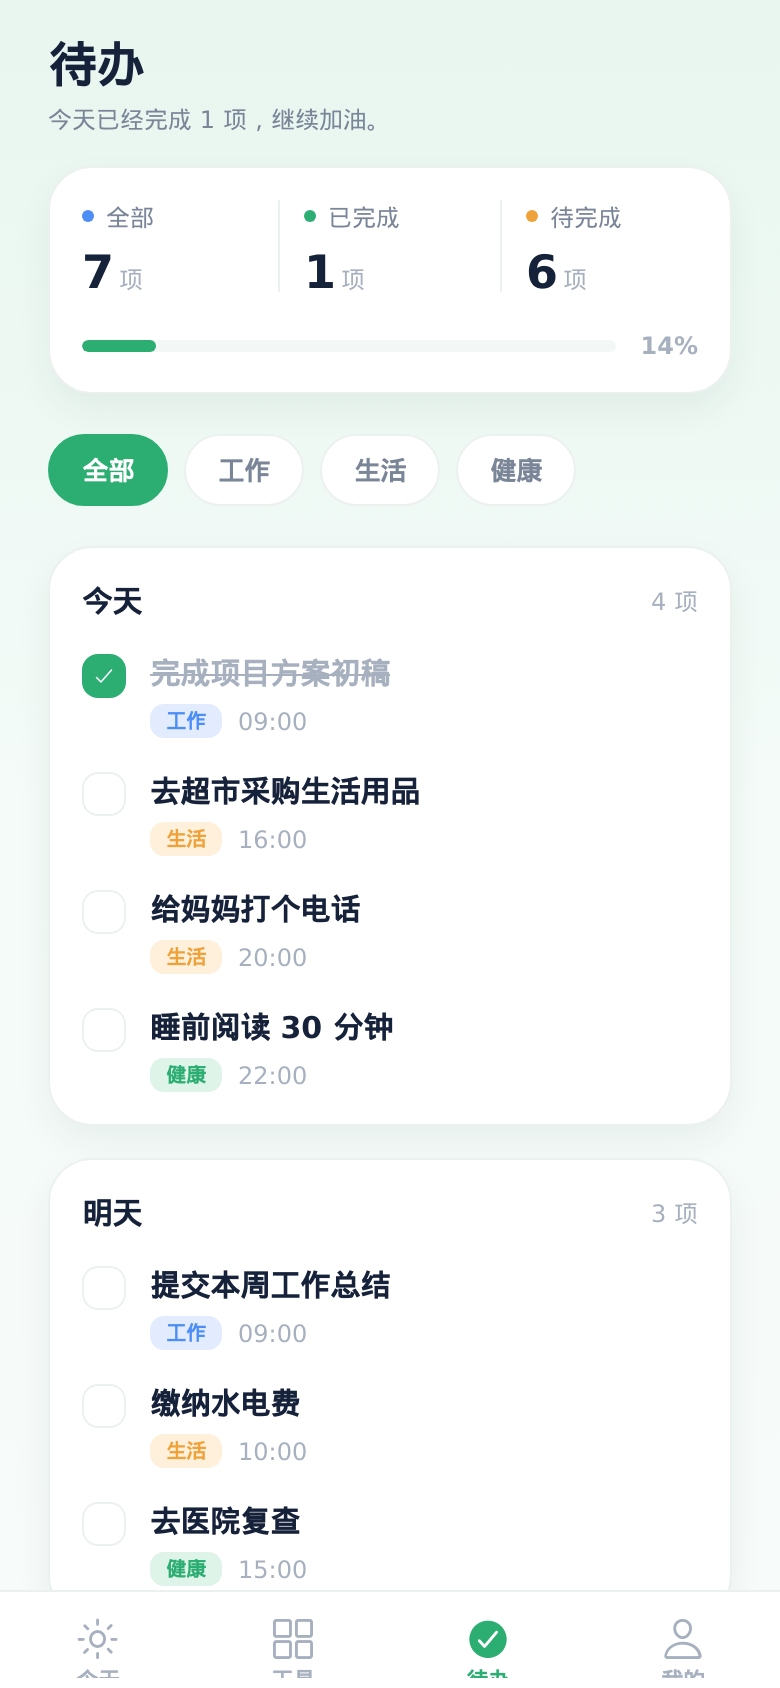
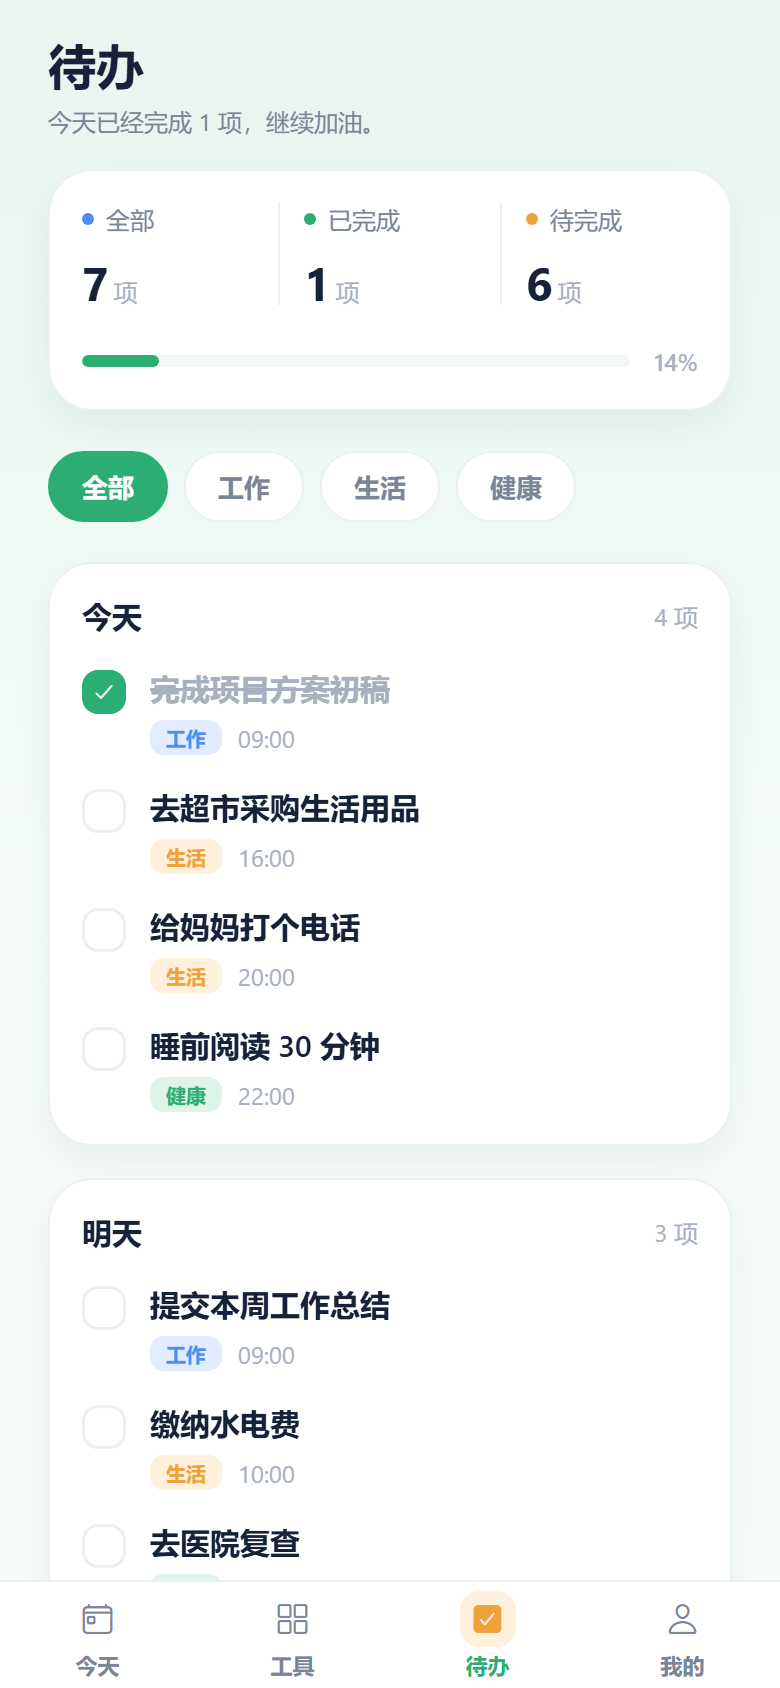
docs: 刷新页面大纲预览图并补充生成脚本

diff --git a/scripts/render-preview.js b/scripts/render-preview.js
@@ -1,0 +1,293 @@
+/**
+ * 用真实 React 组件（react-native-web SSR）重绘 docs/preview 下的页面大纲预览图。
+ *
+ * 依赖均来自现有 Expo / Jest 依赖链：@babel/register、react-native-web、react-dom。
+ * 运行：node scripts/render-preview.js
+ * 截图浏览器优先取环境变量 BROWSER_PATH，其次取系统 Edge。
+ */
+const fs = require('fs');
+const os = require('os');
+const path = require('path');
+const Module = require('module');
+const { execFileSync } = require('child_process');
+const React = require('react');
+const ReactDOMServer = require('react-dom/server');
+
+const root = path.join(__dirname, '..');
+const src = path.join(root, 'src');
+const outDir = path.join(root, 'docs', 'preview');
+const VIEW = { width: 390, height: 844, scale: 2 };
+const OVERVIEW = { width: 940, height: 450, scale: 2 };
+const UNITLESS = new Set([
+  'flex', 'flexGrow', 'flexShrink', 'opacity', 'zIndex', 'fontWeight',
+  'lineHeight', 'aspectRatio', 'elevation', 'shadowOpacity', 'shadowRadius',
+]);
+
+require('@babel/register')({
+  extensions: ['.js', '.jsx', '.ts', '.tsx'],
+  presets: [[require.resolve('babel-preset-expo'), {}]],
+  babelrc: false,
+  configFile: false,
+  cache: false,
+  only: [/[\\/]src[\\/]/],
+  ignore: [/node_modules/],
+});
+
+const resolveFilename = Module._resolveFilename;
+Module._resolveFilename = function (request, parent, ...rest) {
+  if (request === 'react-native') request = 'react-native-web';
+  else if (request.startsWith('@/')) request = path.join(src, request.slice(2));
+  return resolveFilename.call(this, request, parent, ...rest);
+};
+
+const { View, Text, StyleSheet, AppRegistry } = require('react-native-web');
+const glyphs = require(
+  path.join(root, 'node_modules/@expo/vector-icons/build/vendor/react-native-vector-icons/glyphmaps/Ionicons.json'),
+);
+const ioniconsFont = fs.readFileSync(
+  path.join(root, 'node_modules/@expo/vector-icons/build/vendor/react-native-vector-icons/Fonts/Ionicons.ttf'),
+);
+const zeroInsets = { top: 0, left: 0, right: 0, bottom: 0 };
+
+function toDomStyle(style) {
+  const flat = StyleSheet.flatten(style) || {};
+  const css = {};
+  for (const [key, value] of Object.entries(flat)) {
+    if (value == null || typeof value === 'object') continue;
+    css[key] = typeof value === 'number' && !UNITLESS.has(key) ? `${value}px` : value;
+  }
+  return css;
+}
+
+function glyph(name) {
+  const code = glyphs[name];
+  return typeof code === 'number' ? String.fromCharCode(code) : (code ?? '?');
+}
+
+const mocks = {
+  '@/lib/supabase': { supabase: {} },
+  'react-native-safe-area-context': {
+    SafeAreaView: ({ style, children }) => React.createElement(View, { style }, children),
+    SafeAreaProvider: ({ children }) => children,
+    useSafeAreaInsets: () => zeroInsets,
+    initialWindowMetrics: {
+      frame: { x: 0, y: 0, width: VIEW.width, height: VIEW.height },
+      insets: zeroInsets,
+    },
+  },
+  '@expo/vector-icons': {
+    Ionicons: ({ name, size = 16, color = '#000' }) =>
+      React.createElement(
+        'span',
+        {
+          style: {
+            fontFamily: 'Ionicons',
+            fontSize: `${size}px`,
+            lineHeight: `${size}px`,
+            color,
+            display: 'inline-block',
+          },
+        },
+        glyph(name),
+      ),
+  },
+  'expo-linear-gradient': {
+    LinearGradient: ({ colors, style, children }) =>
+      React.createElement(
+        'div',
+        {
+          style: {
+            ...toDomStyle(style),
+            backgroundImage: `linear-gradient(180deg, ${colors.join(', ')})`,
+          },
+        },
+        children,
+      ),
+  },
+  '@react-navigation/native': {
+    useNavigation: () => ({ navigate() {}, goBack() {} }),
+    useRoute: () => ({ params: { toolId: 'work-hours' } }),
+    NavigationContainer: ({ children }) => children,
+    DefaultTheme: {},
+    DarkTheme: {},
+  },
+};
+const load = Module._load;
+Module._load = function (request, parent, isMain) {
+  if (Object.prototype.hasOwnProperty.call(mocks, request)) return mocks[request];
+  return load.call(this, request, parent, isMain);
+};
+
+const { LIGHT_COLORS } = require(path.join(src, 'theme/palette.ts'));
+const { getTabBarStyle, getTabBarTints, TAB_BAR_LABEL_STYLE } = require(
+  path.join(src, 'navigation/tabBar.ts'),
+);
+const { TabIcon } = require(path.join(src, 'components/ui/TabIcon.tsx'));
+
+const SCREENS = [
+  { file: 'today.png', label: '今天', route: 'Today', module: 'screens/today/TodayScreen.tsx', name: 'TodayScreen' },
+  { file: 'tools.png', label: '工具', route: 'Tools', module: 'screens/tools/ToolsScreen.tsx', name: 'ToolsScreen' },
+  { file: 'tasks.png', label: '待办', route: 'Tasks', module: 'screens/tasks/TasksScreen.tsx', name: 'TasksScreen' },
+  { file: 'profile.png', label: '我的', route: 'Profile', module: 'screens/profile/ProfileScreen.tsx', name: 'ProfileScreen' },
+  {
+    file: 'tool-detail.png',
+    label: '工具详情（留空）',
+    route: 'Tools',
+    module: 'screens/tools/ToolPlaceholderScreen.tsx',
+    name: 'ToolPlaceholderScreen',
+  },
+];
+
+const TABS = [
+  { route: 'Today', label: '今天' },
+  { route: 'Tools', label: '工具' },
+  { route: 'Tasks', label: '待办' },
+  { route: 'Profile', label: '我的' },
+];
+
+function TabBar({ active }) {
+  const tints = getTabBarTints(LIGHT_COLORS);
+  return React.createElement(
+    View,
+    {
+      style: {
+        ...getTabBarStyle(LIGHT_COLORS, 0),
+        flexDirection: 'row',
+        alignItems: 'center',
+        flexShrink: 0,
+      },
+    },
+    TABS.map((tab) => {
+      const selected = tab.route === active;
+      return React.createElement(
+        View,
+        { key: tab.route, style: { flex: 1, alignItems: 'center', gap: 2 } },
+        React.createElement(TabIcon, { name: tab.route, focused: selected }),
+        React.createElement(
+          Text,
+          {
+            style: {
+              ...TAB_BAR_LABEL_STYLE,
+              color: selected ? tints.active : tints.inactive,
+              textAlign: 'center',
+            },
+          },
+          tab.label,
+        ),
+      );
+    }),
+  );
+}
+
+function frame(ScreenComponent, active) {
+  return () =>
+    React.createElement(
+      View,
+      {
+        style: {
+          width: VIEW.width,
+          height: VIEW.height,
+          overflow: 'hidden',
+          backgroundColor: LIGHT_COLORS.bg,
+        },
+      },
+      React.createElement(
+        View,
+        { style: { flex: 1, overflow: 'hidden' } },
+        React.createElement(ScreenComponent),
+      ),
+      React.createElement(TabBar, { active }),
+    );
+}
+
+function shell(html, css, width, height, extraCss = '') {
+  return `<!doctype html><html><head><meta charset="utf-8"><style>
+@font-face{font-family:Ionicons;src:url(data:font/ttf;base64,${ioniconsFont.toString('base64')}) format('truetype');font-display:block}
+html,body{margin:0;padding:0;width:${width}px;height:${height}px;overflow:hidden;background:#F7FBFA}
+#root{width:${width}px;height:${height}px}
+[class*="css-text"]{font-family:"Segoe UI","Microsoft YaHei",sans-serif !important}
+${extraCss}</style>${css}</head><body><div id="root">${html}</div></body></html>`;
+}
+
+function findBrowser() {
+  const candidates = [
+    process.env.BROWSER_PATH,
+    'C:\\Program Files (x86)\\Microsoft\\Edge\\Application\\msedge.exe',
+    'C:\\Program Files\\Microsoft\\Edge\\Application\\msedge.exe',
+    'C:\\Program Files\\Google\\Chrome\\Application\\chrome.exe',
+  ];
+  const found = candidates.find((item) => item && fs.existsSync(item));
+  if (!found) throw new Error('未找到截图浏览器，请设置 BROWSER_PATH');
+  return found;
+}
+
+function screenshot(browser, tmp, htmlFile, pngFile, viewport) {
+  execFileSync(browser, [
+    '--headless=new',
+    '--disable-gpu',
+    '--hide-scrollbars',
+    '--no-first-run',
+    `--user-data-dir=${path.join(tmp, 'browser-profile')}`,
+    `--force-device-scale-factor=${viewport.scale}`,
+    `--window-size=${viewport.width},${viewport.height}`,
+    `--virtual-time-budget=6000`,
+    `--screenshot=${pngFile}`,
+    `file:///${htmlFile.replace(/\\/g, '/')}`,
+  ], { stdio: ['ignore', 'ignore', 'pipe'], timeout: 90000 });
+  if (!fs.existsSync(pngFile)) throw new Error(`截图失败：${pngFile}`);
+}
+
+function main() {
+  const browser = findBrowser();
+  const tmp = fs.mkdtempSync(path.join(os.tmpdir(), 'dayweave-preview-'));
+  // 预览图固定在同一时刻，保证每次生成结果一致。
+  const fixed = new Date(2026, 10, 6, 9, 0, 0).getTime();
+  const RealDate = Date;
+  global.Date = class extends RealDate {
+    constructor(...args) {
+      super(...(args.length ? args : [fixed]));
+    }
+    static now() {
+      return fixed;
+    }
+  };
+
+  try {
+    fs.mkdirSync(outDir, { recursive: true });
+    for (const item of SCREENS) {
+      const ScreenComponent = require(path.join(src, item.module))[item.name];
+      AppRegistry.registerComponent(item.route + item.name, () => frame(ScreenComponent, item.route));
+      const { element, getStyleElement } = AppRegistry.getApplication(item.route + item.name, {});
+      const html = ReactDOMServer.renderToString(element);
+      const css = ReactDOMServer.renderToStaticMarkup(getStyleElement());
+      const htmlFile = path.join(tmp, `${item.file}.html`);
+      fs.writeFileSync(htmlFile, shell(html, css, VIEW.width, VIEW.height));
+      screenshot(browser, tmp, htmlFile, path.join(outDir, item.file), VIEW);
+      console.log('生成', item.file);
+    }
+
+    const figures = SCREENS.map(
+      (item) => `<figure><img src="file:///${path.join(outDir, item.file).replace(/\\/g, '/')}"><figcaption>${item.label}</figcaption></figure>`,
+    ).join('');
+    const overviewCss = `
+body{font-family:"Segoe UI","Microsoft YaHei",sans-serif;color:#16213A;padding:12px 26px;box-sizing:border-box}
+h1{font-size:14px;margin:0 0 2px;font-weight:800;letter-spacing:.4px}
+p{font-size:9px;margin:0 0 8px;color:#7A8598}
+.row{display:flex;gap:12px;align-items:flex-start}
+figure{margin:0;width:168px;text-align:center}
+img{width:168px;height:363px;object-fit:cover;border-radius:8px;box-shadow:0 4px 14px rgba(15,44,34,.08);display:block}
+figcaption{font-size:9px;color:#7A8598;margin-top:4px}`;
+    const overviewHtml = `<!doctype html><html><head><meta charset="utf-8"><style>${overviewCss}</style></head><body>
+<h1>Dayweave · 页面大纲</h1><p>浅色主题 · 演示数据 · 工具页留空</p>
+<div class="row">${figures}</div></body></html>`;
+    const overviewFile = path.join(tmp, 'overview.html');
+    fs.writeFileSync(overviewFile, overviewHtml);
+    screenshot(browser, tmp, overviewFile, path.join(outDir, 'overview.png'), OVERVIEW);
+    console.log('生成 overview.png');
+  } finally {
+    global.Date = RealDate;
+    fs.rmSync(tmp, { recursive: true, force: true });
+  }
+}
+
+main();

diff --git a/README.md b/README.md
@@ -43,7 +43,7 @@ Dayweave 是一个面向个人生活场景的助手工具。当前仓库处于**
 | 我的 | 用户信息、数据统计、设置入口、退出登录 | [`profile.png`](./docs/preview/profile.png) |
 | 工具详情 | 标题栏 + 留白占位，等待具体功能填充 | [`tool-detail.png`](./docs/preview/tool-detail.png) |
 
-设计语言：浅薄荷到近白的竖向渐变背景、白色圆角卡片、深靛蓝标题、`#2CAE73` 主色与马卡龙色系图标底色；四个 Tab 在亮色 / 暗色下都有对应取值。预览图由真实组件渲染导出，仅作为版式参考。
+设计语言：浅薄荷到近白的竖向渐变背景、白色圆角卡片、深靛蓝标题、`#2CAE73` 主色与马卡龙色系图标底色；四个 Tab 各有专属语义图标与选中态色块，亮色 / 暗色下都有对应取值。预览图由 `node scripts/render-preview.js` 用真实组件渲染导出（`react-native-web` SSR + 无头浏览器截图），仅作为版式参考；改动页面或底部标签样式后重跑脚本即可刷新这 6 张图。
 
 ## 技术栈
 
@@ -160,7 +160,7 @@ npm run check
 
 ## 构建与发布
 
-Android APK 完全在 GitHub Actions Runner 上构建，**不依赖 Expo / EAS 账号**：CI 内先 `expo prebuild` 生成原生工程，再用 Gradle 打包并签名。JDK 17 与 Android SDK 由 Runner 自带。这套流程与同级项目 `family-piggy` 保持一致。
+Android APK 完全在 GitHub Actions Runner 上构建，**不依赖 Expo / EAS 账号**：CI 内先 `expo prebuild` 生成原生工程，再用 Gradle 打包并签名。JDK 17 与 Android SDK 由 Runner 自带。
 
 CI 工作流：
 
@@ -285,6 +285,33 @@ screens ──► stores ──► services ──► lib/supabase
 - UI 颜色、间距、字号统一从 `theme/` 取，不散落硬编码。
 
 更详细的开发规则见 [`AGENTS.md`](./AGENTS.md)。
+
+## 通用弹窗与选择器
+
+所有提示、确认与日期 / 时间选择都使用应用内组件绘制，不再调用 `Alert.alert` / `window.confirm`，也不使用平台原生日期、时间滚轮；Web、Android、iOS 的视觉与交互保持一致。
+
+| 场景 | 入口 | 返回值 |
+| --- | --- | --- |
+| 消息提示 | `showMessage(title, message?, options?)` | `Promise<void>` |
+| 二次确认 | `confirmAction({ title, message?, confirmText?, cancelText?, destructive? })` | `Promise<boolean>` |
+| 选择日期 | `pickDate({ title?, initial?, min?, max?, ... })` | `Promise<Date \| null>` |
+| 选择时间 | `pickTime({ title?, initial?, minuteStep?, ... })` | `Promise<TimeValue \| null>` |
+
+业务代码只从 `src/lib/alert.ts` 与 `src/lib/picker.ts` 发起请求，`DialogHost` 挂在 `App.tsx` 根节点统一渲染。请求按调用顺序排队；点遮罩或返回键关闭时返回各自的取消值（消息 `undefined`、确认 `false`、选择器 `null`）。
+
+```ts
+const day = await pickDate({ title: '记录日期' });
+if (!day) return; // 用户取消
+```
+
+组件清单：
+
+- `src/components/ui/DialogSheet.tsx` — 通用容器：墨绿遮罩、白色圆角卡、语义图标、220ms 淡入上滑；系统开启「减少动态效果」时自动去掉动画。
+- `src/components/ui/DatePicker.tsx` — 周一起始、固定 6 行的月历，支持可选范围与今日标记。
+- `src/components/ui/TimePicker.tsx` — 时 / 分两列滚动选择，分钟刻度可配置（默认 5 分钟）。
+- `src/components/ui/DialogHost.tsx` — 弹窗队列宿主，按类型分派内容与结果。
+
+设计令牌全部取自 `src/theme`，其中新增 `Colors.backdrop` 提供亮暗两套遮罩色。月历与时间计算分别收敛在 `src/domain/calendar.ts`、`src/domain/time.ts`，都是可注入固定时间的纯函数。开发环境下底部导航会多出「组件预览」Tab，可逐个查看四种效果；生产构建不包含该 Tab。
 
 ## 测试
 
